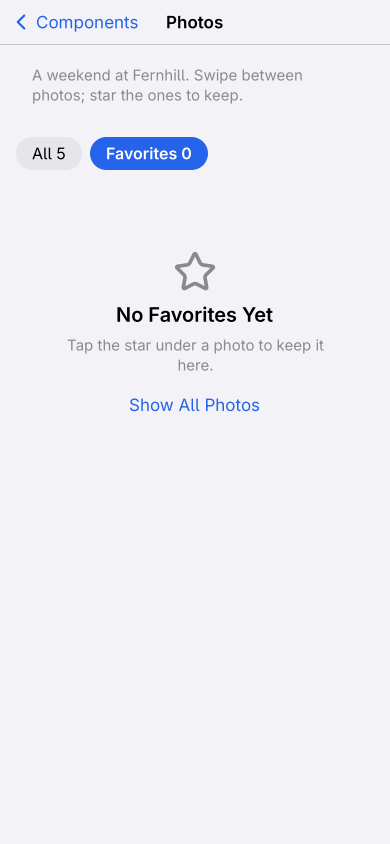
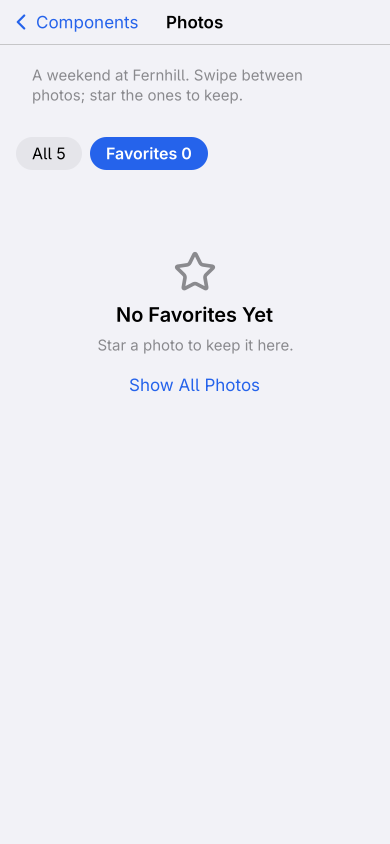
Linux tests: the components example's data pages, with their screenshots
tests/components_data.rs opens the Description List, Tree, Calendar,
Carousel and Settings pages from the index with the example apps' theme,
checks each loaded (the order after its loading state, a booked stay's
total, the album's empty Favorites) and writes
screenshots/components-{order,files,booking,photos,photos-empty,settings}-*.png
under NSH_SCREENSHOTS=1. The files shot now shows the page as it opens; the
album's tabs get test ids and its empty state a shorter line.

Changed region(s): [[0.1846, 0.4005, 0.8308, 0.4929]]

diff --git a/examples/components/pages/photos.js b/examples/components/pages/photos.js
@@ -56,8 +56,8 @@ export default class PhotosPage extends View {
             this.tab = i;
             cx.notify();
           })
-          .child(new Tab().label(`All ${PHOTOS.length}`).accessibility_label(`All photos, ${PHOTOS.length}`))
-          .child(new Tab().label(`Favorites ${this.favorites.size}`).accessibility_label(`Favorites, ${this.favorites.size}`)),
+          .child(new Tab().label(`All ${PHOTOS.length}`).test_id("album-all").accessibility_label(`All photos, ${PHOTOS.length}`))
+          .child(new Tab().label(`Favorites ${this.favorites.size}`).test_id("album-favorites").accessibility_label(`Favorites, ${this.favorites.size}`)),
         current
           ? v_flex()
               .gap_3()
@@ -107,7 +107,7 @@ export default class PhotosPage extends View {
               .px_8()
               .child(new Icon("icons/star.svg").size(44).color(t.muted_foreground))
               .child(label(cx, "title3", t.foreground, "No Favorites Yet").font_semibold())
-              .child(label(cx, "subheadline", t.muted_foreground, "Tap the star under a photo to keep it here.").text_center())
+              .child(label(cx, "subheadline", t.muted_foreground, "Star a photo to keep it here.").text_center())
               .child(
                 textButton(cx, "show-all", "Show All Photos", {
                   on_click: (_e, cx) => {

diff --git a/platforms/linux/tests/components_data.rs b/platforms/linux/tests/components_data.rs
@@ -1,0 +1,104 @@
+//! The components example's data and navigation pages on GTK (an order's
+//! details, a project's files, a cabin booking, a photo album, notification
+//! settings), opened from the index as a reader would, with their light and
+//! dark screenshots.
+
+mod support;
+
+use std::process::ExitCode;
+use std::time::Duration;
+
+use support::{example_runtime, pump_for, run, Fixture};
+
+fn main() -> ExitCode {
+    run(&[
+        ("components example: description list page", order_page),
+        ("components example: tree page", files_page),
+        ("components example: calendar page", booking_page),
+        ("components example: carousel page", photos_page),
+        ("components example: settings page", settings_page),
+    ])
+}
+
+/// The components example at its index, with the example apps' theme.
+fn components() -> Fixture {
+    gtk::Settings::default().expect("settings").set_gtk_enable_animations(false);
+    let dir = std::path::Path::new(env!("CARGO_MANIFEST_DIR")).join("../../examples/components");
+    let f = Fixture::start_with(&example_runtime(), Default::default(), |i| i.load_dir(&dir));
+    f.wait_for("index");
+    f
+}
+
+/// Pushes the page behind `open-<id>` and waits for `ready` on it.
+fn open(id: &str, ready: &str) -> Fixture {
+    let f = components();
+    f.tap(&format!("open-{id}"));
+    pump_for(Duration::from_millis(400));
+    f.wait_for(ready);
+    f
+}
+
+/// Light and dark screenshots of what `f` shows, into `screenshots/`.
+fn screenshots(f: &Fixture, name: &str) {
+    f.set_dark(false);
+    f.screenshot(format!("screenshots/components-{name}-light.png"));
+    f.set_dark(true);
+    f.screenshot(format!("screenshots/components-{name}-dark.png"));
+    f.set_dark(false);
+}
+
+fn order_page() {
+    // The order loads first, then reads like a receipt.
+    let f = open("order", "total");
+    f.expect("order-details");
+    f.expect("delivery");
+    assert!(f.find("order-loading").is_none());
+    screenshots(&f, "order");
+}
+
+fn files_page() {
+    let f = open("files", "tree");
+    f.expect("details");
+    f.expect("path");
+    screenshots(&f, "files");
+}
+
+/// `YYYY-MM-DD`, `days` from today.
+fn date(days: i32) -> String {
+    let d = gtk::glib::DateTime::now_local().expect("now").add_days(days).expect("date");
+    format!("{:04}-{:02}-{:02}", d.year(), d.month(), d.day_of_month())
+}
+
+fn booking_page() {
+    let f = open("booking", "calendar");
+    f.expect("summary-prompt");
+    // A stay a week out, clear of the booked nights (3–5 and 12–13 days out),
+    // stepping to the next month when a date falls there.
+    for day in [date(7), date(10)] {
+        let cell = format!("calendar-{day}");
+        if f.find(&cell).is_none() {
+            f.tap("calendar-next");
+        }
+        f.tap(&cell);
+    }
+    f.expect("total");
+    screenshots(&f, "booking");
+}
+
+fn photos_page() {
+    let f = open("photos", "carousel");
+    f.expect("caption");
+    screenshots(&f, "photos");
+    // Favorites holds one photo; unstarring it leaves the empty state.
+    f.tap("album-favorites");
+    f.tap("favorite");
+    f.expect("no-favorites");
+    screenshots(&f, "photos-empty");
+}
+
+fn settings_page() {
+    let f = open("notifications", "settings");
+    f.expect("allow");
+    f.expect("previews");
+    screenshots(&f, "settings");
+}
